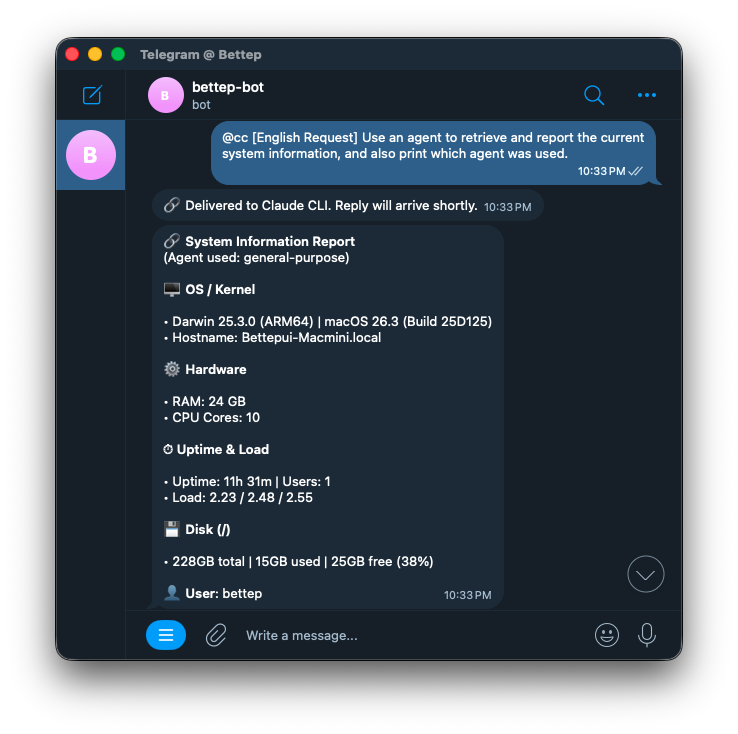
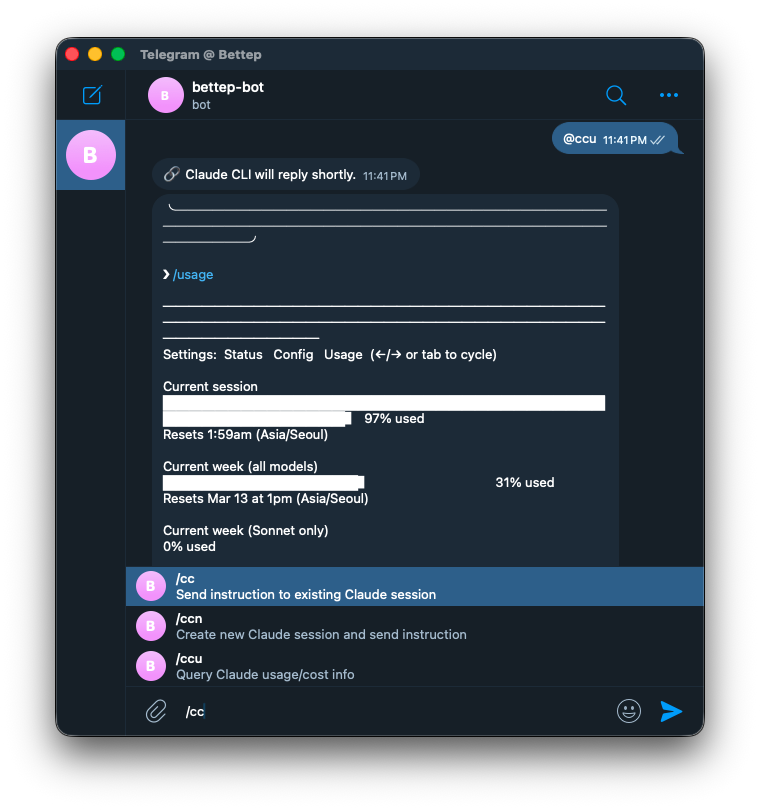
- [x] v2.0.2: Fix spinner freeze, improve code quality and add npm uninstall hook ✅ 2026-03-07
- Fix execSync blocking event loop during gateway restart (async exec)
- Add try/catch for Commander.js async action (unhandled rejection)
- Add stdin raw mode safe restoration on unexpected exit
- Add active spinner cleanup on process exit
- Add npm preuninstall hook for automatic cleanup
- Add gateway restart to uninstall command
- Fix shell injection defense in whichBin and patchScriptVars
- Remove duplicate substituteTemplate (use platform.js)
- Sync suppression timeout with EXEC_TIMEOUT
- Extract DELIVERY_MSG constant in plugin

Changed region(s): [[0.0623, 0.03, 0.935, 0.9292], [0.6545, 0.5695, 0.7168, 0.5995], [0.6233, 0.8093, 0.6545, 0.8392]]

diff --git a/lib/onboard.js b/lib/onboard.js
@@ -4,10 +4,13 @@
 const fs = require('fs');
 const path = require('path');
 const readline = require('readline');
-const { execSync } = require('child_process');
+const util = require('util');
+const { exec, execSync } = require('child_process');
 const chalk = require('chalk');
-const { checkAll, printStatus, whichBin, getInstallCmd, installDep } = require('./deps');
-const { detectOS, getHomeDir, getWorkspace, getScriptsDir, installDaemon } = require('./platform');
+
+const execAsync = util.promisify(exec);
+const { checkAll, getInstallCmd, installDep } = require('./deps');
+const { detectOS, getHomeDir, getWorkspace, getScriptsDir, installDaemon, substituteTemplate } = require('./platform');
 
 const CORE_CHANNELS = [
   'telegram', 'discord', 'slack', 'whatsapp', 'signal', 'irc',
@@ -99,8 +102,25 @@ function selectList(items, defaultIndex = 0) {
   }
 
   return new Promise((resolve) => {
-    let cursor = defaultIndex;
     const wasRaw = stdin.isRaw;
+
+    // Ensure defaultIndex points to a selectable item
+    const selectableIndices = items
+      .map((item, i) => item.separator ? -1 : i)
+      .filter(i => i >= 0);
+    if (!selectableIndices.includes(defaultIndex)) {
+      defaultIndex = selectableIndices[0] ?? 0;
+    }
+    let cursor = defaultIndex;
+
+    const cleanup = () => {
+      try { stdin.setRawMode(wasRaw || false); } catch {}
+      stdin.removeListener('data', onKey);
+      stdin.pause();
+      process.removeListener('exit', cleanup);
+    };
+
+    process.once('exit', cleanup);
 
     function render(first) {
       // Move cursor up to overwrite previous render (except on first draw)
@@ -131,11 +151,6 @@ function selectList(items, defaultIndex = 0) {
       stdout.write(`\r\x1b[K    ${chalk.dim('\u2191\u2193 navigate   enter select')}\n`);
     }
 
-    // Find selectable indices (skip separators)
-    const selectableIndices = items
-      .map((item, i) => item.separator ? -1 : i)
-      .filter(i => i >= 0);
-
     function moveCursor(direction) {
       const currentPos = selectableIndices.indexOf(cursor);
       if (currentPos < 0) return;
@@ -155,9 +170,7 @@ function selectList(items, defaultIndex = 0) {
     function onKey(key) {
       // Ctrl+C
       if (key === '\x03') {
-        stdin.setRawMode(wasRaw || false);
-        stdin.removeListener('data', onKey);
-        stdin.pause();
+        cleanup();
         process.exit(0);
       }
 
@@ -177,9 +190,7 @@ function selectList(items, defaultIndex = 0) {
 
       // Enter
       if (key === '\r' || key === '\n') {
-        stdin.setRawMode(wasRaw || false);
-        stdin.removeListener('data', onKey);
-        stdin.pause();
+        cleanup();
 
         // Overwrite the hint line with the selection result
         stdout.write(`\x1b[1A\r\x1b[K    ${chalk.green('\u2713')} Selected: ${chalk.bold(items[cursor].label)}\n`);
@@ -195,22 +206,29 @@ function selectList(items, defaultIndex = 0) {
 
 const SPINNER_FRAMES = ['⠋', '⠙', '⠹', '⠸', '⠼', '⠴', '⠦', '⠧', '⠇', '⠏'];
 
+let activeSpinner = null;
+
 function startSpinner(text) {
   let i = 0;
   const id = setInterval(() => {
     process.stdout.write(`\r    ${chalk.cyan(SPINNER_FRAMES[i % SPINNER_FRAMES.length])} ${text}`);
     i++;
   }, 80);
-  return {
+  const spinner = {
+    _id: id,
     stop(result) {
       clearInterval(id);
+      activeSpinner = null;
       process.stdout.write(`\r    ${chalk.green('\u2713')} ${result}\n`);
     },
     fail(result) {
       clearInterval(id);
+      activeSpinner = null;
       process.stdout.write(`\r    ${chalk.red('\u2717')} ${result}\n`);
     },
   };
+  activeSpinner = spinner;
+  return spinner;
 }
 
 function formatInstallMsg(label, dir, created, patched) {
@@ -220,13 +238,6 @@ function formatInstallMsg(label, dir, created, patched) {
   return `${label.padEnd(11)} ${chalk.dim('->')} ${dir} ${chalk.dim(`(${parts.join(', ')})`)}`;
 }
 
-function substituteTemplate(content, vars) {
-  let result = content;
-  for (const [key, value] of Object.entries(vars)) {
-    result = result.replace(new RegExp(`\\{\\{${key}\\}\\}`, 'g'), value);
-  }
-  return result;
-}
 
 function getScriptVersion(filePath) {
   try {
@@ -260,8 +271,9 @@ function patchScriptVars(filePath, varMapping, vars) {
     const newValue = vars[varsKey];
     if (!newValue) continue;
 
+    const escaped = newValue.replace(/["\\`$]/g, '\\$&');
     const regex = new RegExp(`^(${scriptVar}=).*$`, 'gm');
-    const updated = content.replace(regex, `$1"${newValue}"`);
+    const updated = content.replace(regex, `$1"${escaped}"`);
     if (updated !== content) {
       content = updated;
       patched++;
@@ -272,17 +284,6 @@ function patchScriptVars(filePath, varMapping, vars) {
   return patched;
 }
 
-function patchSkillPath(filePath, scriptsDir) {
-  let content = fs.readFileSync(filePath, 'utf8');
-  const regex = /(\/[^\s]*\/)(claude-[\w-]+\.sh)/g;
-  const updated = content.replace(regex, `${scriptsDir}/$2`);
-
-  if (updated !== content) {
-    fs.writeFileSync(filePath, updated);
-    return true;
-  }
-  return false;
-}
 
 function getDateStr() {
   const d = new Date();
@@ -589,8 +590,8 @@ async function onboard() {
       else cmds.push({ command: bc.command, description: bc.description });
     }
 
-    fs.writeFileSync(openclawConfigPath, JSON.stringify(config, null, 2) + '\n');
-  } catch (e) {
+    fs.writeFileSync(openclawConfigPath, `${JSON.stringify(config, null, 2)}\n`);
+  } catch {
     console.log(`    ${chalk.yellow('!')} Could not write openclaw.json — plugin may need manual config`);
   }
 
@@ -679,15 +680,18 @@ async function onboard() {
   await sleep(300);
 
   let restarted = false;
+  let restartError = '';
   try {
-    execSync('openclaw gateway restart', { stdio: 'ignore', timeout: 15000 });
+    await execAsync('openclaw gateway restart', { timeout: 15000 });
     restarted = true;
-  } catch {}
+  } catch (e) {
+    restartError = e.stderr?.trim() || e.message;
+  }
 
   if (restarted) {
     spinner5.stop(`Gateway     ${chalk.dim('->')} restarted ${chalk.dim('(skills loaded)')}`);
   } else {
-    spinner5.fail(`Gateway     ${chalk.dim('->')} could not restart automatically`);
+    spinner5.fail(`Gateway     ${chalk.dim('->')} could not restart ${restartError ? chalk.dim(`(${restartError})`) : ''}`);
   }
 
   // ========== Done ==========
@@ -716,4 +720,11 @@ async function onboard() {
   console.log();
 }
 
-module.exports = { onboard, BRIDGE_COMMANDS, SCRIPT_VARS, substituteTemplate };
+process.on('exit', () => {
+  if (activeSpinner) {
+    clearInterval(activeSpinner._id);
+    activeSpinner = null;
+  }
+});
+
+module.exports = { onboard, BRIDGE_COMMANDS, SCRIPT_VARS };

diff --git a/plugin/index.ts b/plugin/index.ts
@@ -12,11 +12,13 @@ const SCRIPT_MAP: Record<string, string> = {
 const REQUIRES_ARG = new Set(["cc", "ccn"]);
 const EXEC_TIMEOUT = 120_000;
 
+const DELIVERY_MSG = "🔗 Claude CLI will reply shortly.";
+
 const SILENT_PROMPT =
   "SYSTEM OVERRIDE: The previous user message was intercepted by the claude-bridge plugin and is already being handled externally. " +
-  "You MUST NOT process, interpret, or respond to it. Output ONLY this exact text, nothing else: 🔗 Delivered to Claude CLI. Reply will arrive shortly.";
+  `You MUST NOT process, interpret, or respond to it. Output ONLY this exact text, nothing else: ${DELIVERY_MSG}`;
 
-// Track active bridge suppression with timestamp (expires after 30s)
+// NOTE: Single-user assumption — concurrent users may see cross-suppression
 let bridgeSuppressUntil = 0;
 
 export default function register(api: OpenClawPluginApi) {
@@ -34,7 +36,7 @@ export default function register(api: OpenClawPluginApi) {
     const lastUserText = extractLastUserText(event.messages);
 
     if (lastUserText && PREFIX_RE.test(lastUserText)) {
-      bridgeSuppressUntil = Date.now() + 30_000;
+      bridgeSuppressUntil = Date.now() + EXEC_TIMEOUT + 5_000;
       return { systemPrompt: SILENT_PROMPT, prependContext: SILENT_PROMPT };
     }
   });
@@ -43,7 +45,7 @@ export default function register(api: OpenClawPluginApi) {
   // Replace LLM output with delivery confirmation while bridge suppression is active
   api.on("message_sending", async (_event, _ctx) => {
     if (Date.now() < bridgeSuppressUntil) {
-      return { content: "🔗 Delivered to Claude CLI. Reply will arrive shortly." };
+      return { content: DELIVERY_MSG };
     }
   });
 

diff --git a/lib/cli.js b/lib/cli.js
@@ -2,6 +2,7 @@
 'use strict';
 
 const { Command } = require('commander');
+const { execSync } = require('child_process');
 const chalk = require('chalk');
 const fs = require('fs');
 const path = require('path');
@@ -19,8 +20,13 @@ program
   .command('onboard')
   .description('Set up the bridge (auto-detects most settings, just press Enter)')
   .action(async () => {
-    const { onboard } = require('./onboard');
-    await onboard();
+    try {
+      const { onboard } = require('./onboard');
+      await onboard();
+    } catch (e) {
+      console.error(chalk.red(`\n  Setup failed: ${e.message}`));
+      process.exit(1);
+    }
   });
 
 // --- check ---
@@ -205,6 +211,19 @@ program
       } catch {
         console.log(`    ${chalk.dim('-')} Could not update openclaw.json`);
       }
+    }
+
+    // Restart gateway to unload plugin
+    let restarted = false;
+    try {
+      execSync('openclaw gateway restart', { stdio: 'ignore', timeout: 15000 });
+      restarted = true;
+    } catch {}
+
+    if (restarted) {
+      console.log(`    ${chalk.green('\u2713')} Gateway restarted (plugin unloaded)`);
+    } else {
+      console.log(`    ${chalk.dim('-')} Could not restart gateway (restart manually if needed)`);
     }
 
     console.log();

diff --git a/lib/deps.js b/lib/deps.js
@@ -29,6 +29,7 @@ const DEPS = [
 ];
 
 function whichBin(name) {
+  if (!/^[a-z0-9_-]+$/i.test(name)) return null;
   try {
     return execSync(`command -v ${name}`, { encoding: 'utf8' }).trim();
   } catch {

diff --git a/lib/platform.js b/lib/platform.js
@@ -135,4 +135,5 @@ module.exports = {
   getScriptsDir,
   installDaemon,
   removeDaemon,
+  substituteTemplate,
 };

diff --git a/README.md b/README.md
@@ -8,7 +8,8 @@ Bridge OpenClaw messaging channels (Telegram, Discord, Slack, etc.) to Claude CL
 
 Uses your existing OAuth-based Claude subscription directly — no separate API billing required.
 
-<img src="DEMO_1.png" alt="Telegram demo 1" width="300" /> <img src="DEMO_2.png" alt="Telegram demo 2" width="300" /> <img src="DEMO_3.png" alt="Telegram demo 3" width="300" />
+<img src="DEMO_1.png" alt="Telegram demo 1" width="400" /> 
+<img src="DEMO_2.png" alt="Telegram demo 2" width="400" />
 
 ## How It Works
 
@@ -18,11 +19,11 @@ This means zero token cost on the gateway agent, no message alteration, and no i
 
 ## Prerequisites
 
-| Dependency | Install |
-| --- | --- |
-| [OpenClaw](https://openclaw.ai) | `npm i -g openclaw` |
-| [Claude CLI](https://github.com/anthropics/claude-code) | `npm i -g @anthropic-ai/claude-code` |
-| [tmux](https://github.com/tmux/tmux) | Auto-installed during onboard if missing |
+| Dependency                                              | Install                                  |
+| ------------------------------------------------------- | ---------------------------------------- |
+| [OpenClaw](https://openclaw.ai)                         | `npm i -g openclaw`                      |
+| [Claude CLI](https://github.com/anthropics/claude-code) | `npm i -g @anthropic-ai/claude-code`     |
+| [tmux](https://github.com/tmux/tmux)                    | Auto-installed during onboard if missing |
 
 > **Note:** macOS and Linux only. Windows is not supported (tmux dependency).
 
@@ -39,11 +40,11 @@ Once complete, send `/cc hello` from your chat to verify the connection.
 
 ## Commands
 
-| Command | Description |
-| --- | --- |
-| `@cc message` or `/cc message` | Send to existing session (keeps context) |
-| `@ccn message` or `/ccn message` | Start a new session (fresh context) |
-| `@ccu` or `/ccu` | Show Claude usage info |
+| Command                          | Description                              |
+| -------------------------------- | ---------------------------------------- |
+| `@cc message` or `/cc message`   | Send to existing session (keeps context) |
+| `@ccn message` or `/ccn message` | Start a new session (fresh context)      |
+| `@ccu` or `/ccu`                 | Show Claude usage info                   |
 
 Quotes are not needed around messages:
 
@@ -71,11 +72,11 @@ Quotes are not needed around messages:
 
 The plugin uses three hooks:
 
-| Hook | Purpose |
-| --- | --- |
-| `before_prompt_build` | Detects prefix commands and overrides the system prompt to suppress the LLM |
-| `message_sending` | Cancels the LLM's outgoing message for bridge-handled commands |
-| `message_received` | Executes the corresponding shell script (`claude-send.sh`, `claude-new-session.sh`, or `claude-usage.sh`) |
+| Hook                  | Purpose                                                                                                   |
+| --------------------- | --------------------------------------------------------------------------------------------------------- |
+| `before_prompt_build` | Detects prefix commands and overrides the system prompt to suppress the LLM                               |
+| `message_sending`     | Cancels the LLM's outgoing message for bridge-handled commands                                            |
+| `message_received`    | Executes the corresponding shell script (`claude-send.sh`, `claude-new-session.sh`, or `claude-usage.sh`) |
 
 A daemon (LaunchAgent on macOS, systemd on Linux) runs `claude-session.sh` every 30 seconds to keep the tmux session alive. Claude CLI responds via `openclaw message send` back through the originating channel.
 
